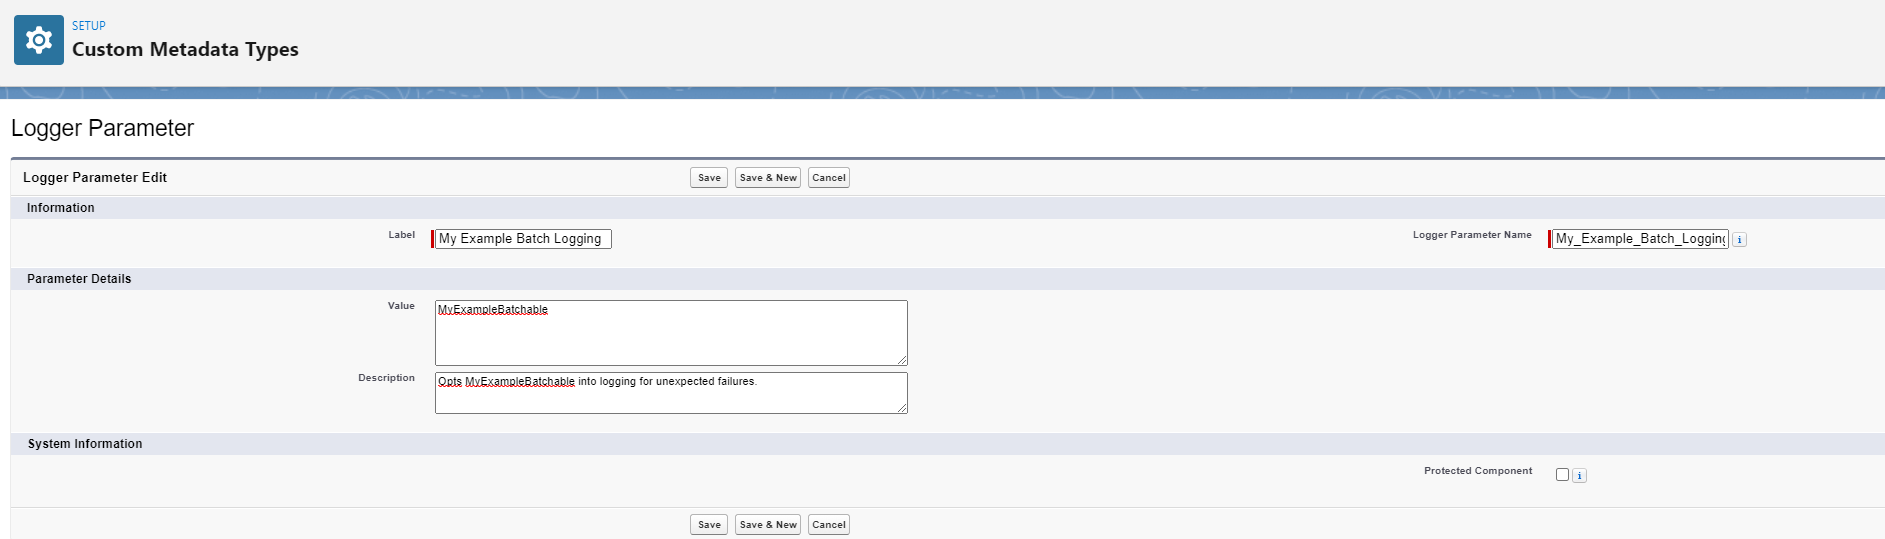
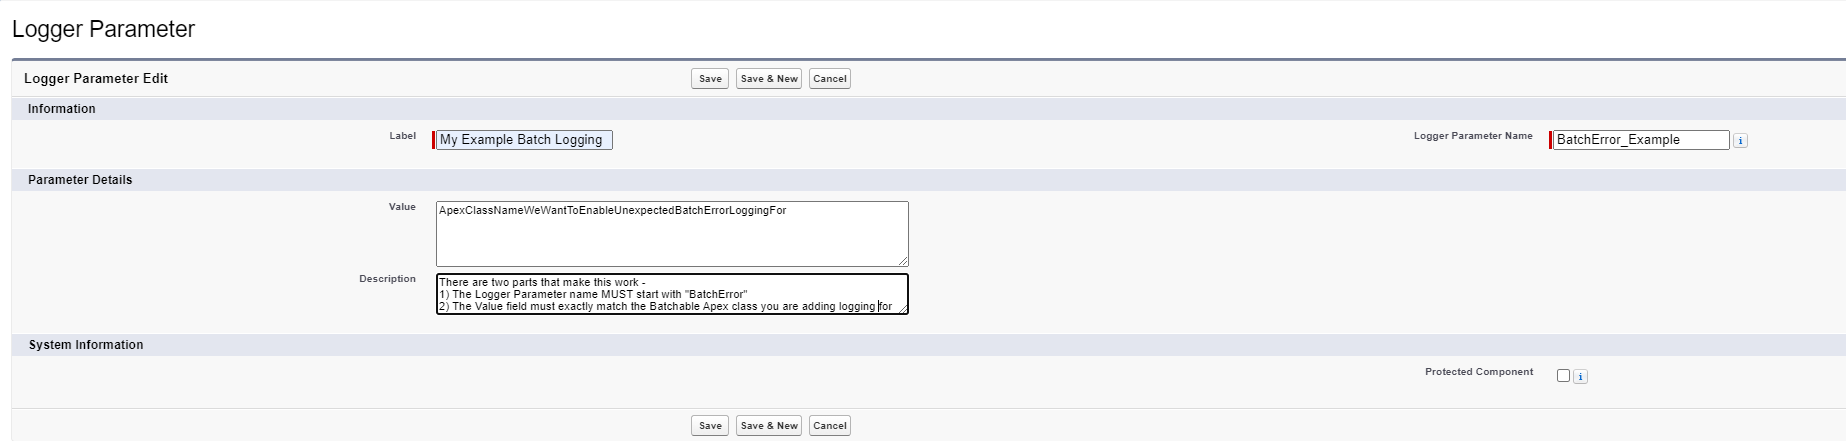
Code review feedback - updated test class to make use of User metadata to avoid having to perform DML/the extra logs associated with Account, and updated example image in README to correctly describe the process for enabling unexpected batch error logging

diff --git a/nebula-logger/plugins/async-failure-additions/README.md b/nebula-logger/plugins/async-failure-additions/README.md
@@ -8,7 +8,7 @@
 
 ### Unexpected Batch Error Logging
 
-By default, this plugin adds support for logging unexpected Batch class failures in Apex. All a batch class needs to do is implement the marker `Database.RaisesPlatformEvents` interface _and_ create a `LoggerParameter__mdt` record where the `Value` field matches the name of the batch class you are looking to add logging for:
+By default, this plugin adds support for logging unexpected Batch class failures in Apex. All a batch class needs to do is implement the marker `Database.RaisesPlatformEvents` interface _and_ create a `LoggerParameter__mdt` record where the `Value` field matches the name of the batch class you are looking to add logging for, and the DeveloperName (the "Name" field) starts with `BatchError`:
 
 ```java
 // the class MUST implement Database.RaisesPlatformEvents for this to work correctly!
@@ -20,6 +20,8 @@ public class MyExampleBatchable implements Database.Batchable<SObject>, Database
 And the CMDT record:
 
 ![Setting up the Logger Parameter record to opt into unexpected Batch failures](.images/opt-into-batch-logging-with-logger-parameter.png)
+
+Once you've correctly configured those two things (the marker interface `Database.RaisesPlatformEvents` on the Apex batchable class, and the Logger Parameter CMDT record), your class will now log any uncaught exceptions that cause that batch class to fail unexpectedly.
 
 ---
 
